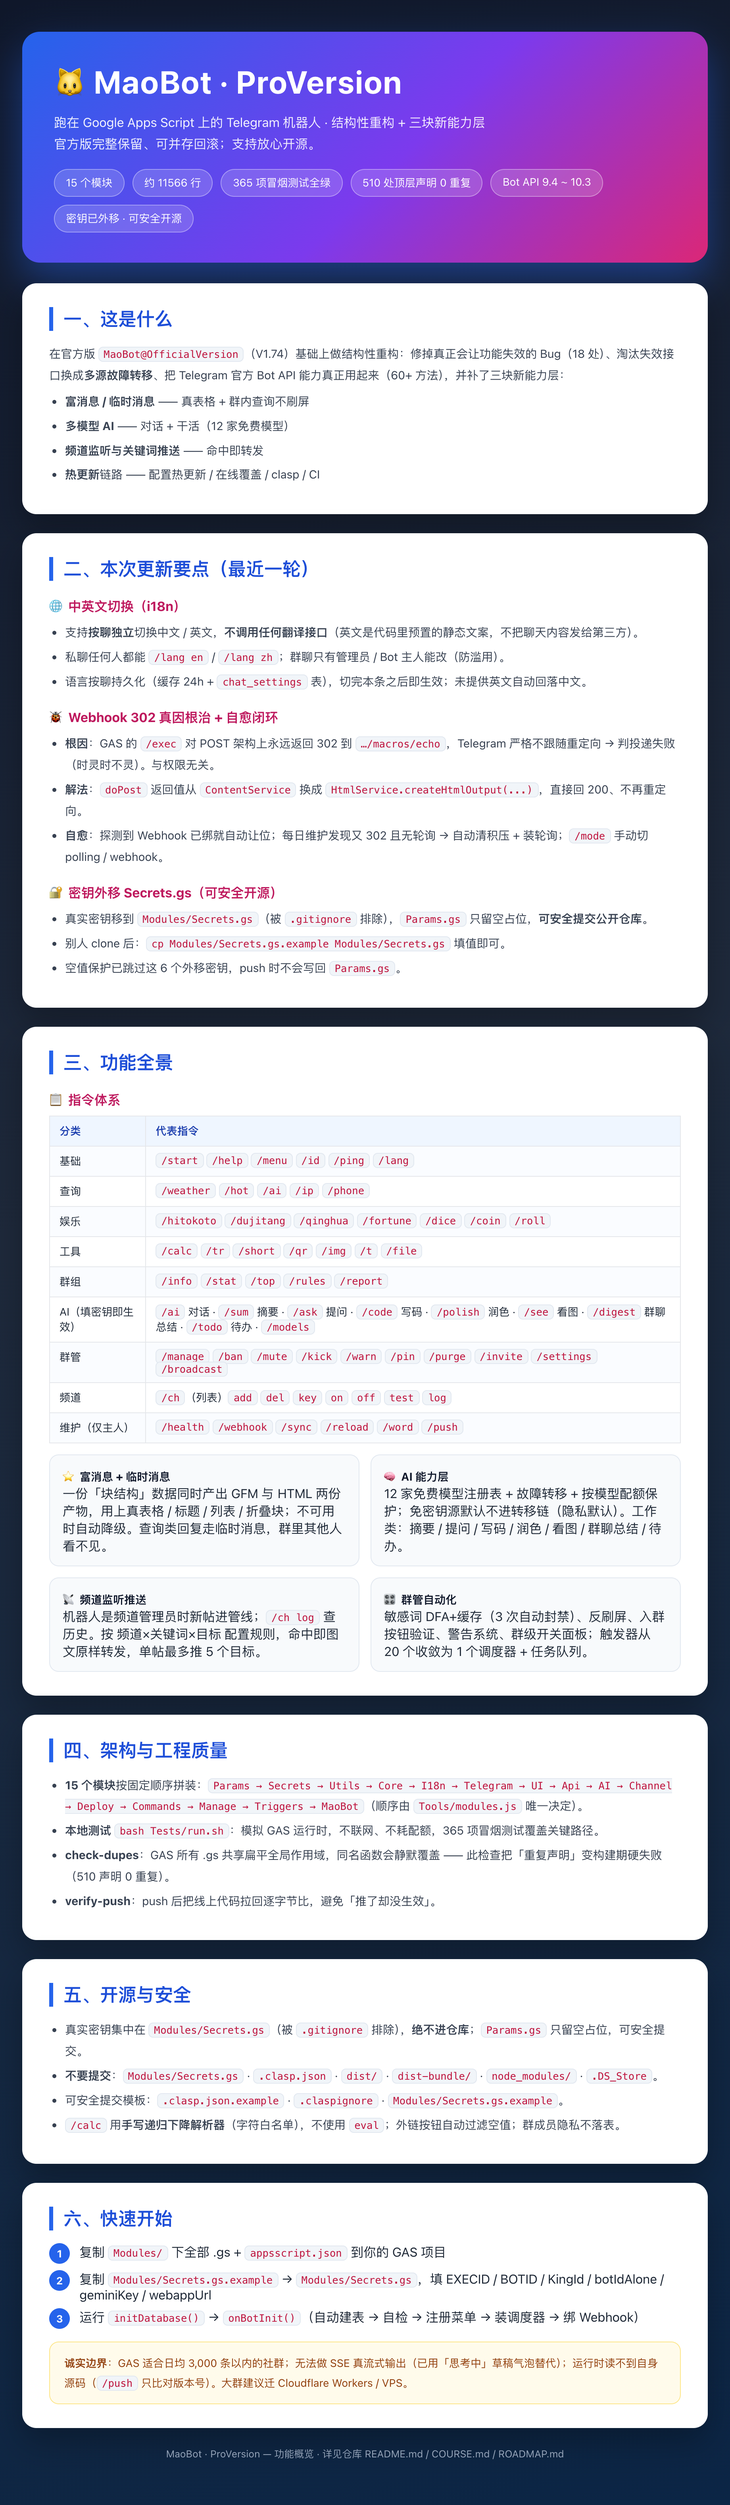
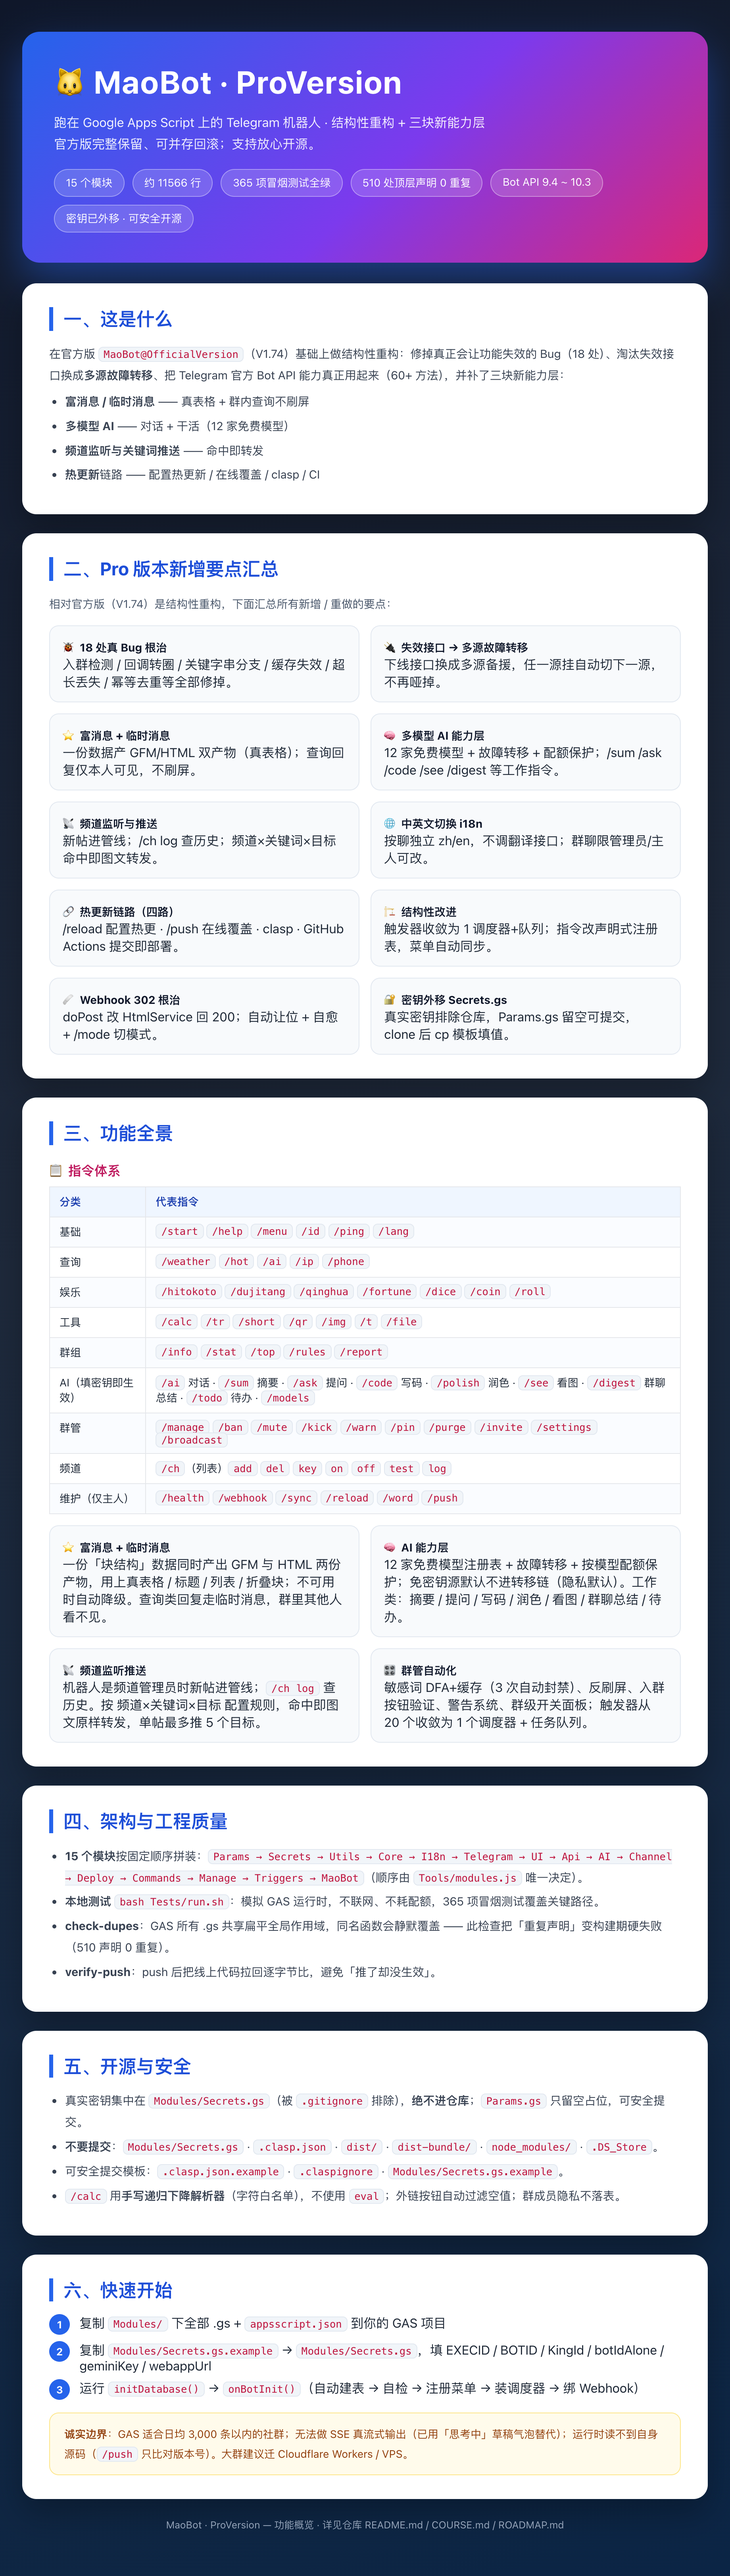
fix：更新pro版本描述

Changed region(s): [[0.031, 0.0312, 0.9913, 0.9672], [0.7435, 0.5304, 0.8054, 0.5616]]

diff --git a/Apps Script/MaoBot@ProVersion/功能概览.md b/Apps Script/MaoBot@ProVersion/功能概览.md
@@ -21,24 +21,48 @@ MaoBot 是一个跑在 **Google Apps Script（GAS）** 上的 Telegram 机器人
 
 ---
 
-## 二、本次更新要点（最近一轮）
+## 二、Pro 版本新增要点汇总
 
-这一轮主要解决三件事：**双语**、**Webhook 稳定性**、**可以放心开源**。
+ProVersion 相对官方版（V1.74）是一次结构性重构。下面按能力归类，**汇总所有新增 / 重做的要点**（完整技术清单见 `README.md`）：
 
-### 1. 🌐 中英文切换（i18n）
-- 支持**按聊独立**切换中文 / 英文，**不调用任何翻译接口**（英文是代码里预置的静态文案，不把聊天内容发给第三方）。
-- 私聊任何人都能 `/lang en` / `/lang zh` 切自己的语言；群聊只有管理员 / Bot 主人能改（防滥用），改的是「这个群」的语言。
-- 语言按聊持久化（缓存 24h + `chat_settings` 表），切完本条之后即生效。未提供英文的地方自动回落中文，不会空白。
+### 🐞 真 Bug 根治（18 处）
+- 入群/退群检测改用 `new_chat_members` / `left_chat_member`（旧字段早已移除，官方版欢迎/欢送从未真正生效）；回调按钮补 `answerCallbackQuery`（修点按钮转圈到超时）。
+- 关键字命中后不再串到兜底分支；`getUnixTime` 拼写修复；`setStorage` 行号修复；第三方文本统一 `esc()` 转义（防 400 丢消息）。
+- 敏感词 DFA Trie 进缓存（不再每条消息重建）；超 4096 字符自动分段；`update_id` 去重（防重复回复）；统一 `openById` 优先（修脚本未绑表时抛异常）。
 
-### 2. 🐞 Webhook 302 真因根治 + 自愈闭环
-- **根因**：GAS 的 `/exec` 对 POST 请求架构上永远返回 302 到 `…/macros/echo`，Telegram 严格不跟随重定向 → 判投递失败，表现为「时灵时不灵 / 首条能回后续全哑」。与权限无关。
-- **解法**：`doPost` 返回值从 `ContentService` 换成 `HtmlService.createHtmlOutput(...)`，GAS 直接回 200、不再重定向。
-- **自愈**：`pollUpdates()` 探测到 Webhook 已绑就自动让位（避免抢消息 / 刷 409）；`runDailyMaintenance()` 里加 `ensureReachable()`，发现 Webhook 又 302 且无轮询 → 自动清积压 + 装轮询；新增 `/mode` 手动切 `polling` / `webhook`。
+### 🔌 失效接口 → 多源故障转移
+- 已下线 / 不稳定的单域名接口全部换成多源故障转移（热榜、天气、翻译、短链、运势、一言等），任一源失效自动切下一源，全部失效给友好提示而不是哑掉。
 
-### 3. 🔐 密钥外移 Secrets.gs（可安全开源）
-- 真实密钥从 `Modules/Params.gs` 移到 `Modules/Secrets.gs`（被 `.gitignore` 排除），`Params.gs` 只保留空占位，**可安全提交到公开仓库**。
-- 别人 clone 后：`cp Modules/Secrets.gs.example Modules/Secrets.gs` 填自己的值即可。
-- `keep-remote-values.js` 的空值保护已跳过这 6 个外移密钥，push 时不会再把手填的真值写回 `Params.gs`。
+### ⭐ 富消息 + 临时消息（观感升级）
+- 一份「块结构」数据同时产出 GFM 与 HTML 两份产物，`/hot` `/top` `/stat` `/health` `/models` `/ch log` 用上**真表格 / 标题 / 列表 / 折叠块**；富消息不可用时自动降级，两条路径永不脱节。
+- 查询类回复（`/id` `/ping` `/calc` `/ip` `/t` `/file` `/phone` `/ai`）走临时消息，**群里其他人看不见**，不需要「先发再定时删」。
+
+### 🧠 多模型 AI 能力层
+- **12 家免费模型**注册表（Gemini / Groq / Cerebras / Mistral / OpenRouter / GitHub Models / Together / Cloudflare 等 + 自定义兼容端点），填了密钥自动生效。
+- **故障转移** + 按模型配额保护；免密钥源默认不进转移链（隐私默认，要显式打开）。
+- **工作类指令**：`/sum` 摘要 · `/ask` 提问 · `/code` 写码排错 · `/polish` 润色 · `/see` 看图 · `/digest` 群聊总结 · `/todo` 待办 · `/models` 额度。
+
+### 📡 频道监听 · 查询 · 关键词推送
+- 机器人是频道管理员时新帖进处理管线；`/ch log` 按时间倒序查历史（带分页）。
+- 按 **频道 × 关键词 × 目标会话** 配置规则，命中即图文原样转发（`copyMessage`），单帖最多推 5 个目标。
+
+### 🌐 中英文切换（i18n）
+- 支持**按聊独立**切换中文 / 英文，**不调用任何翻译接口**（英文是代码里预置的静态文案）；私聊任何人可切，群聊仅管理员 / 主人可改；按聊持久化，切完即生效。
+
+### 🔗 热更新链路（四条路）
+- 配置热更新 `/reload`（覆盖 90% 日常改动）；在线覆盖 `/push`；本地 clasp `push.sh`；GitHub Actions 提交即部署。
+
+### 🏗 两个结构性改进
+- 触发器从「20 个一次性触发器」收敛为「1 个调度器 + 任务队列」，解除 GAS 20 触发器硬限制。
+- 指令从「单一 switch 20+ 分支」改为声明式注册表，`/help` 与命令面板自动同步。
+
+### 🩹 Webhook 302 真因根治 + 自愈闭环
+- **根因**：GAS 的 `/exec` 对 POST 架构上永远返回 302 到 `…/macros/echo`，Telegram 严格不跟随重定向 → 判投递失败（时灵时不灵）。与权限无关。
+- **解法**：`doPost` 返回值从 `ContentService` 换成 `HtmlService.createHtmlOutput(...)`，直接回 200、不再重定向。
+- **自愈**：`pollUpdates()` 探测到 Webhook 已绑就自动让位；`ensureReachable()` 发现又 302 且无轮询 → 自动清积压 + 装轮询；`/mode` 手动切 `polling` / `webhook`。
+
+### 🔐 密钥外移 Secrets.gs（可安全开源）
+- 真实密钥移到 `Modules/Secrets.gs`（被 `.gitignore` 排除），`Params.gs` 只留空占位，**可安全提交公开仓库**；别人 clone 后 `cp Modules/Secrets.gs.example Modules/Secrets.gs` 填值即可；空值保护已跳过这 6 个密钥，push 不会写回 `Params.gs`。
 
 ---
 
